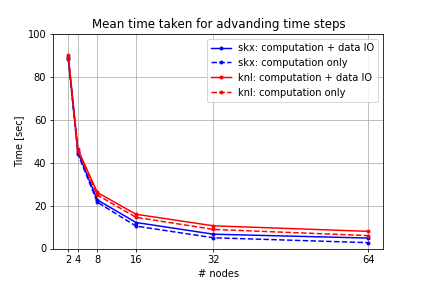
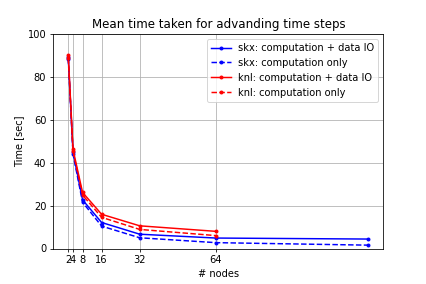
add results using 128 skx nodes

Changed region(s): [[0.1526, 0.1408, 0.885, 0.9296], [0.8545, 0.9014, 0.885, 0.9296]]

diff --git a/comparison_knl_vs_skx.py b/comparison_knl_vs_skx.py
@@ -20,13 +20,14 @@ cases = ['knl', 'skx']
 
 ## both use base mesh
 numCPUs  = {'knl': 68,      'skx':48}
-# numCells = {'knl':38475335, 'skx':38475060}
-numCells = {'knl':38475335, 'skx':21399033}
+mesh, numCells = 'base', {'knl':38475335, 'skx':38475060}
+# mesh, numCells = 'coarse', {'knl':21399033, 'skx':21399033}
+
 numNodes = {'knl':[2, 4, 8, 16, 32, 64], \
-            'skx':[2, 4, 8, 16, 32, 64]}
+            'skx':[2, 4, 8, 16, 32, 64, 128]}
 
 for test_case in cases:
-    print('Case:', test_case)
+    print('Mesh:', mesh, ', Node:', test_case)
     for node in numNodes[test_case]:
         print('# nodes:', node,
           ', # cores:', (node*numCPUs[test_case]),
@@ -93,7 +94,7 @@ for test_case in cases:
         plt.ylabel('Time [sec]')
         plt.legend(numNodes[test_case],loc='upper right')
         plt.ylim((0,210))
-    plt.savefig('results/time_per_step_'+test_case+'.png')
+    plt.savefig('results/time_per_step_'+mesh+'_'+test_case+'.png')
  
 
 #%% mean time taken for time steps
@@ -109,15 +110,35 @@ plt.legend(['skx: computation + data IO','skx: computation only',\
             'knl: computation + data IO','knl: computation only'])
 plt.xlabel('# nodes')
 plt.ylabel('Time [sec]')
-plt.xticks(numNodes['knl'])
+plt.xticks(numNodes['skx'])
 plt.yticks(range(0,101,20))
 plt.ylim(0,100)
 plt.grid()
-plt.savefig('results/mean_time_per_step_knl_skx.png')
+plt.savefig('results/mean_time_per_step_'+mesh+'_knl_skx.png')
+
+
+#%% log
+plt.figure(figsize=(6,4))
+plt.loglog(numNodes['skx'], mean_time_sec['skx'],'b.-')
+plt.loglog(numNodes['skx'], mean_time_sec_comp['skx'],'b.--')
+plt.loglog(numNodes['knl'], mean_time_sec['knl'],'r.-')
+plt.loglog(numNodes['knl'], mean_time_sec_comp['knl'],'r.--')
+
+
+plt.title('Mean time taken for advanding time steps')
+plt.legend(['skx: computation + data IO','skx: computation only',\
+            'knl: computation + data IO','knl: computation only'])
+plt.xlabel('log(# nodes)')
+plt.ylabel('log(Time)')
+plt.xticks(np.log(numNodes['knl']))
+plt.xscale("log",base=2)
+
+plt.grid()
+plt.savefig('results/log_mean_time_per_step_'+mesh+'_knl_skx.png')
 
 #%% Mean normalized speed
 
-plt.figure(figsize=(6,4))
+plt.figure(figsize=(8,4))
 plt.plot(numNodes['skx'], mean_norm_spd['skx'],'b.-')
 plt.plot(numNodes['skx'], mean_norm_spd_comp['skx'],'b.--')
 plt.plot(numNodes['knl'], mean_norm_spd['knl'],'r.-')
@@ -128,11 +149,11 @@ plt.legend(['skx: computation + data IO','skx: computation only',\
             'knl: computation + data IO','knl: computation only'])
 plt.xlabel('# nodes')
 plt.ylabel('Time [sec]')
-plt.xticks(numNodes['knl'])
-plt.yticks(range(0,1001,200))
-plt.ylim(0,1000)
+plt.xticks(numNodes['skx'])
+plt.yticks(range(0,1201,200))
+plt.ylim(0,1200)
 plt.grid()
-plt.savefig('results/mean_norm_spd_knl_skx.png')
+plt.savefig('results/mean_norm_spd_'+mesh+'_knl_skx.png')
 
     
 #%% speed up curve
@@ -163,9 +184,7 @@ for key in enumerate(cases):
     plt.title('Speedup curve: '+test_case)
     plt.legend(['Ideal','Computation only','Computation + data IO',])
     
-plt.savefig('results/speedup_curve_knl_skx.png')
-
-
+plt.savefig('results/speedup_curve_'+mesh+'_knl_skx.png')
 
 
 

diff --git a/README.md b/README.md
@@ -80,17 +80,20 @@ LES simulation for natural ventilation in urban slums of Dhaka, Bangladesh
 
 1. Time per time step 
 
-   <img src="results/mean_time_per_step_knl_skx.png" width="600">
+   <img src="results/mean_time_per_step_base_knl_skx.png" width="600">
+
+   <img src="results/log_mean_time_per_step_base_knl_skx.png" width="600">
+
 
 2. Normalized speed
 
-<img src="results/mean_norm_spd_knl_skx.png" width="600">
+<img src="results/mean_norm_spd_base_knl_skx.png" width="600">
 
 
 
 3. speedup curve
 
-<img src="results/speedup_curve_knl_skx.png" width="800">
+<img src="results/speedup_curve_base_knl_skx.png" width="800">
 
 
 
@@ -99,7 +102,9 @@ LES simulation for natural ventilation in urban slums of Dhaka, Bangladesh
 ### Results 1: KNL computational node, base& fine mesh
 
 1. Time taken for advanding time step \
-   <img src="results/time_per_step_base.png" width="400"> <img src="results/time_per_step_fine.png" width="400"> 
+   <img src="results/time_per_step_base.png" width="600">
+
+   <img src="results/time_per_step_fine.png" width="600"> 
 
    <center>Figure 1. Time taken for advancing time step</center>
 
